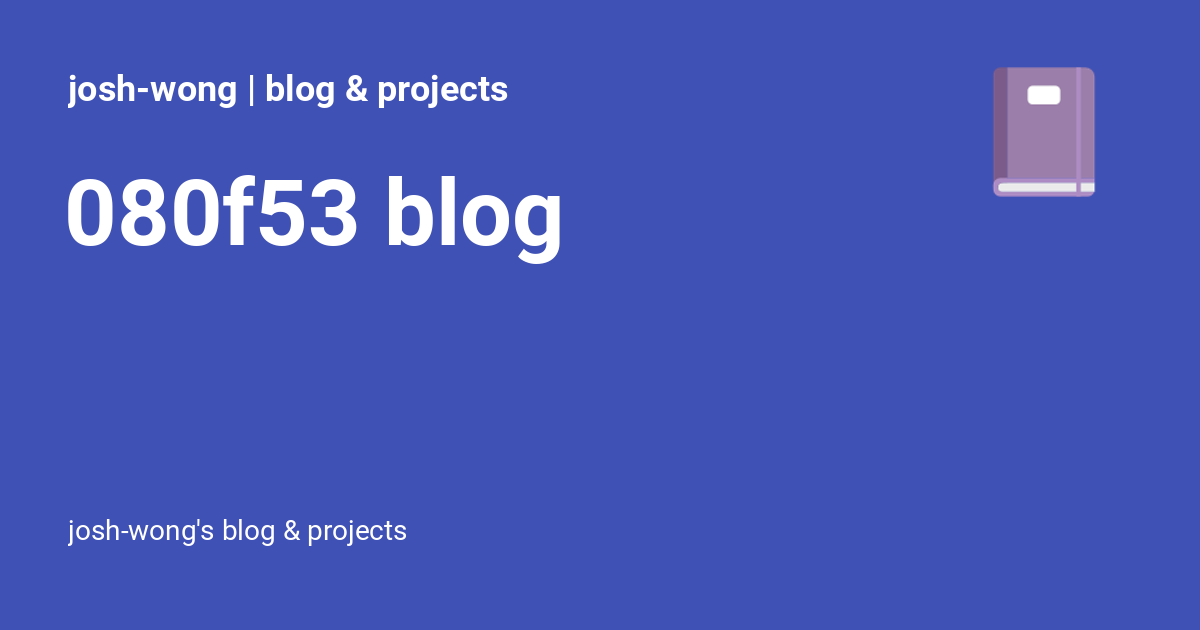
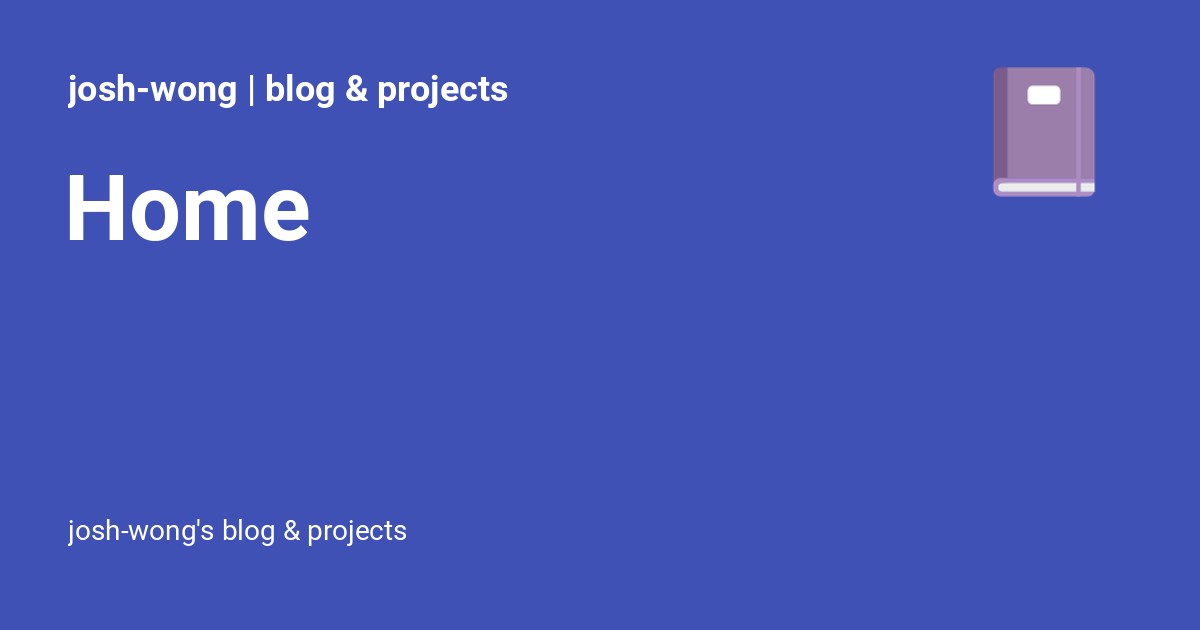
Deployed e1119ade with MkDocs version: 1.4.2

Changed region(s): [[0.0308, 0.2714, 0.4933, 0.4222]]

diff --git a/index.html b/index.html
@@ -113,7 +113,7 @@
       
         <meta  property="og:type"  content="website" >
       
-        <meta  property="og:title"  content="080f53 blog" >
+        <meta  property="og:title"  content="Home" >
       
         <meta  property="og:description"  content="josh-wong's blog & projects" >
       
@@ -129,7 +129,7 @@
       
         <meta  name="twitter:card"  content="summary_large_image" >
       
-        <meta  name="twitter:title"  content="080f53 blog" >
+        <meta  name="twitter:title"  content="Home" >
       
         <meta  name="twitter:description"  content="josh-wong's blog & projects" >
       
@@ -1210,6 +1210,18 @@
 
 
 
+<!--
+Redirecting to the [blog](blog/index.md)...
+-->
+<!DOCTYPE html>
+<p><html>
+<head>
+  <meta charset="utf-8">
+  <meta http-equiv="refresh" content="0; URL=blog">
+  <link rel="canonical" href="blog">
+  
+</head>
+</html></p>
 <h1 id="080f53-blog">#<abbr title="A dark blue-violet color in the hex format">080f53</abbr> blog<a class="headerlink" href="#080f53-blog" title="Permanent link">&para;</a></h1>
 <p>Thoughts and observations from <a href="about/"><abbr title="A technical writer and knowledge management specialist living and working in Tokyo🗼🗾">Josh</abbr></a>✍🏻</p>
 <p><img alt="Blog banner (light theme) - Graph of knowledge nodes" src="blog/assets/assets/images/~blog-banner-light-theme.jpg#only-light" />
